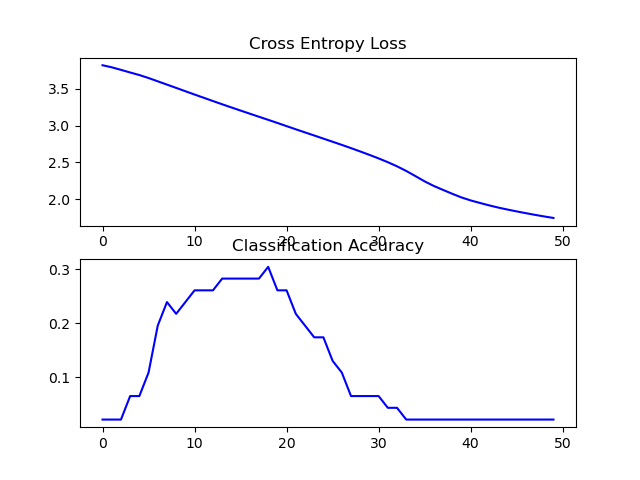
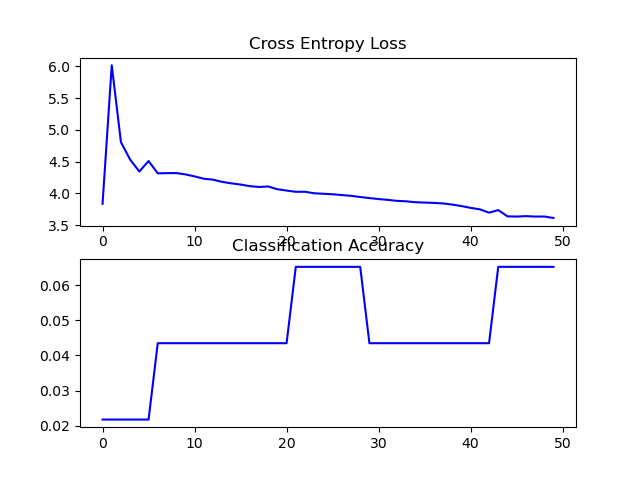
Changed Files

diff --git a/src/cnntrial.py b/src/cnntrial.py
@@ -9,9 +9,14 @@ from keras.layers import Dense
 from keras.layers import Flatten
 from keras.optimizers import SGD
 from keras.preprocessing.image import ImageDataGenerator
+import numpy as np
+import os
+
 
 
 path = "D:/Academics/ECE/Sem 6/DeepLearning/Project/output/CLEANED_DATA/"
+category_list = os.listdir(path)
+print(category_list)
 training_data_dir = path + "train"
 test_data_dir = path + "test"
 
@@ -26,7 +31,7 @@ def define_model():
     model.add(Dense(46, activation='sigmoid'))
     # compile model
     opt = SGD(lr=0.001, momentum=0.9)
-    model.compile(optimizer=opt, loss='categorical_crossentropy', metrics=['accuracy'])
+    model.compile(optimizer='adam', loss='categorical_crossentropy', metrics=['accuracy'])
     return model
 
 
@@ -63,7 +68,15 @@ def run_test_harness():
     history = model.fit_generator(train_it, steps_per_epoch=len(train_it), epochs=50, verbose=1)
     # evaluate model
     _, acc = model.evaluate_generator(test_it, steps=len(test_it), verbose=0)
-    print('> %.9f' % (acc * 100.0))
+    k = model.predict(test_it)
+    h = [np.argmax(x) for x in k]
+    print(h)
+    s = 1
+    for i in h:
+        k = category_list[i]
+        print('Test Image {}: Belongs to class {}'.format(s,k))
+        s = s+1
+    #print('> %.9f' % (acc * 100.0))
     # learning curves
     summarize_diagnostics(history)
 
